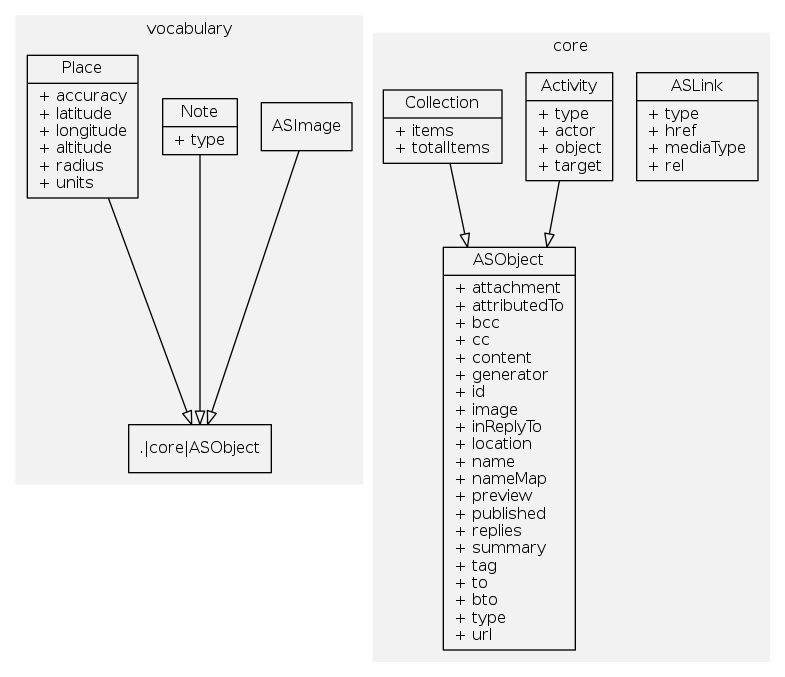
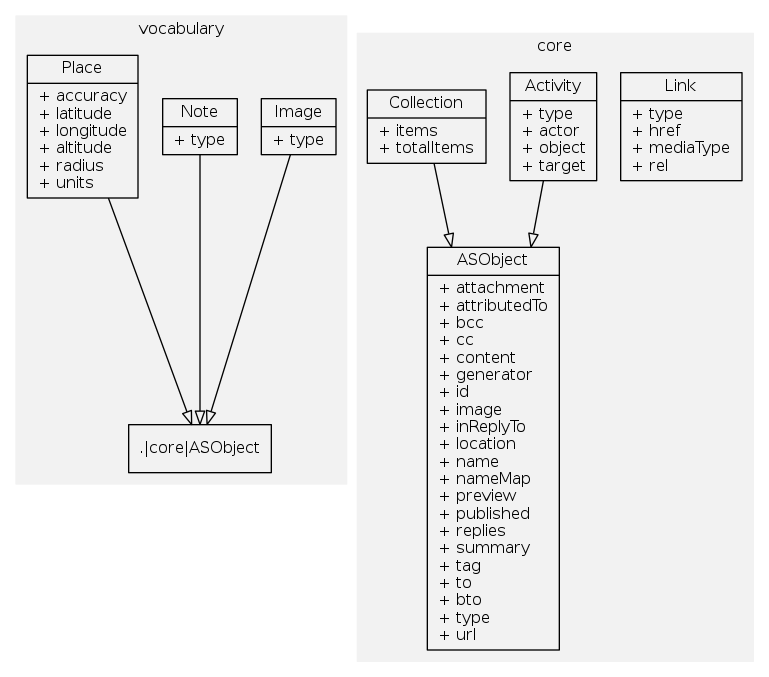
Only use AS prefix with ASObject (Object is taken by JS)

diff --git a/src/core.ts b/src/core.ts
@@ -6,7 +6,7 @@
  * This file is only for stuff in the core spec.
  */
 
-import {ASImage} from './vocabulary';
+import {Image} from './vocabulary';
 
 export const jsonLdProfile = 'https://www.w3.org/ns/activitystreams';
 
@@ -43,7 +43,7 @@ export type xsdAnyUri = string;
 type OneOrMore<T> = T|T[];
 
 /** @todo (bengo.is) string could be more specific, e.g. LDIdentifier */
-export type ASValue = string|ASObject|ASLink;
+export type ASValue = string|ASObject|Link;
 
 /** @todo (bengo.is) enumerage lang strings */
 type RdfLangString = string;
@@ -64,14 +64,14 @@ export type ASObjectType<T> = T|T[];
  * @see https://www.w3.org/TR/activitystreams-vocabulary/#dfn-object
  */
 export class ASObject {
-  attachment?: OneOrMore<ASObject|ASLink>;
+  attachment?: OneOrMore<ASObject|Link>;
   attributedTo?: LDValue<ASObject>;
   bcc?: LDValue<ASObject>;
   cc?: OneOrMore<LDValue<ASObject>>;
   content?: string;
   generator?: LDValue<ASObject>;
   id?: string;
-  image?: OneOrMore<string|ASLink|ASImage>;
+  image?: OneOrMore<string|Link|Image>;
   inReplyTo?: LDValue<ASObject>;
   location?: ASObject;
   name?: string;
@@ -80,11 +80,11 @@ export class ASObject {
   published?: ISO8601;
   replies?: LDValue<Collection<ASObject>>;
   summary?: string|RdfLangString;
-  tag?: ASObject|ASLink;
+  tag?: ASObject|Link;
   to?: LDValue<ASObject>;
   bto?: LDValue<ASObject>;
   type?: ASObjectType<string>;
-  url?: OneOrMore<xsdAnyUri|ASLink>;
+  url?: OneOrMore<xsdAnyUri|Link>;
 }
 
 /**
@@ -101,22 +101,22 @@ type LinkRelation = string;
 /**
  * @see https://www.w3.org/TR/activitystreams-vocabulary/#dfn-link
  */
-export class ASLink {
+export class Link {
   type: ASObjectType<'Link'> = 'Link';
   href: xsdAnyUri;
   mediaType?: string;
   rel?: LinkRelation;
-  constructor(init: {href: xsdAnyUri}&Partial<ASLink>) {
+  constructor(init: {href: xsdAnyUri}&Partial<Link>) {
     Object.assign(this, init);
     this.href = init.href;
   }
 }
 
 /**
- * Test whether an object is an ASLink
- * @param obj - object to test whether it is an ASLink
+ * Test whether an object is an Link
+ * @param obj - object to test whether it is an Link
  */
-export const isASLink = (obj: ASObject): obj is ASLink => {
+export const isLink = (obj: ASObject): obj is Link => {
   return obj.type === 'Link';
 };
 

diff --git a/src/vocabulary.ts b/src/vocabulary.ts
@@ -15,7 +15,9 @@ import {ASObject, ASObjectType, xsdAnyUri,} from './core';
 /**
  * @see https://www.w3.org/TR/activitystreams-vocabulary/#dfn-image
  */
-export class ASImage extends ASObject {}
+export class Image extends ASObject {
+  type: ASObjectType<'Image'> = 'Image';
+}
 
 /**
  * @see https://www.w3.org/TR/activitystreams-vocabulary/#dfn-note
